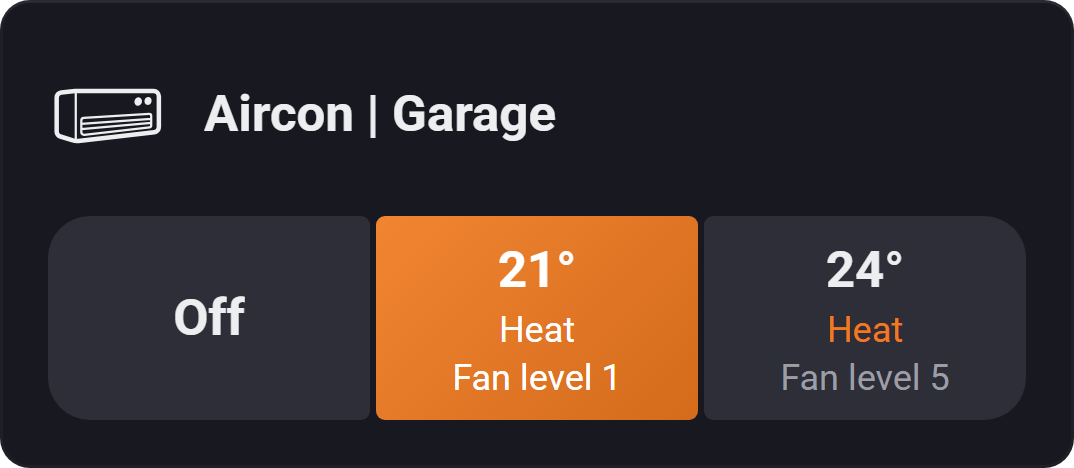
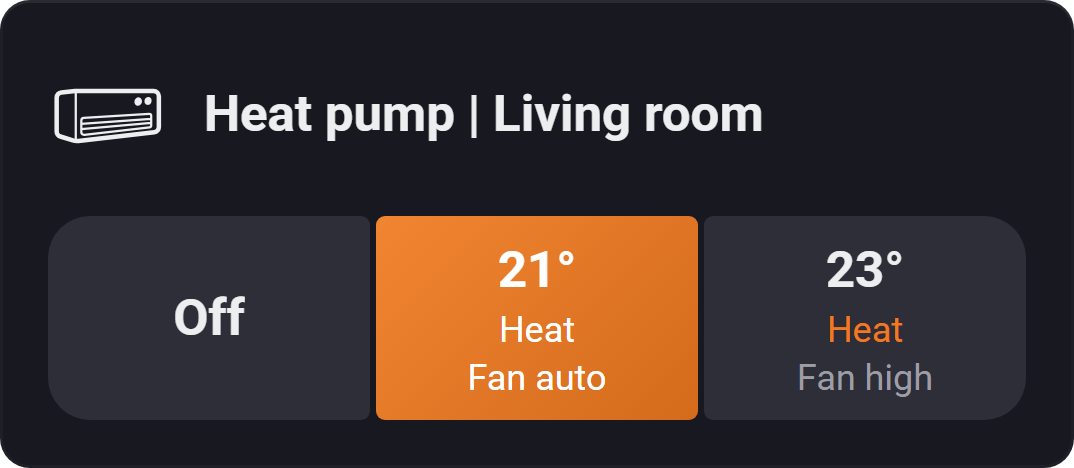
Light Controls: on/off-only lights; README screenshots from the made-up house
- Light Controls lists plugs and wall switches set up as lights (filter
  class light|socket, capabilities onoff|dim); a tile without dim has no
  bar and turns on and off
- The README screenshots use the showcase's Solbakken data on its fixed
  clock instead of mock data with real device names; the dev previews'
  real names are replaced too
- Part of 0.7.1 (changelogs)

Claude-Session: https://claude.ai/code/session_01PZZVc8wyA3FDcu8vWP5U9t

diff --git a/dev/mock-dashboard.js b/dev/mock-dashboard.js
@@ -1,90 +1,45 @@
-// The mock widgets of dev/screenshots.html and dev/showcase.html: the real widget code with fixed mock data,
-// mounted into the elements with the ids w-elec, w-thermo, w-qa, w-sa, w-weather, w-heatmap, w-cameras, w-values,
-// w-lights and w-sparklines. Needs the widget scripts, the mock-*.js files and temp/screenshot-icons.js loaded first.
-const icon = name => (window.ICONS && ICONS[name]) || null;
+// The widgets of dev/screenshots.html: the real widget code with the made-up home of showcase-data.js ("Solbakken",
+// the showcase dashboards' data, so no real home's names or readings end up in the README), mounted into the elements
+// with the ids w-elec, w-thermo, w-qa, w-sa, w-weather, w-heatmap, w-cameras, w-values, w-lights and w-sparklines.
+// Needs the widget scripts, mock-cameras.js, temp/screenshot-icons.js and showcase-data.js loaded first, and the
+// showcase's fixed clock (screenshots.html sets it), so every render is the same.
+(function () {
+  const LOCALE = 'en-GB';
+  const all = Object.values(SHOWCASE).flatMap(board => board.columns.flat());
+  /** The `n`th widget of a type, in the order of the dashboards (home, energy, security) and their columns. */
+  const find = (type, n = 0) => all.filter(w => w.type === type)[n];
+  const el = id => document.getElementById(id);
 
-const elec = createElectricityWidget(document.getElementById('w-elec'), { locale: 'en-GB' });
-elec.setSettings({ liveWindow: 10, nextLow: 'both' });
-elec.setData(mockSnapshot());
+  const elec = find('electricity');
+  const e = createElectricityWidget(el('w-elec'), { locale: LOCALE });
+  e.setSettings({ ...elec.settings, liveWindow: 10, smooth: false });
+  e.setData(elec.data);
 
-const FAN = { title: 'Fan level', units: null, values: ['AUTO', 'LEVEL1', 'LEVEL2', 'LEVEL3', 'LEVEL4', 'LEVEL5'].map((id, i) => ({ id, title: i ? `Level ${i}` : 'Auto' })) };
-const MODE = { title: 'Mode', units: null, values: [['COOL', 'Cool'], ['HEAT', 'Heat'], ['AUTO', 'Auto'], ['OFF', 'Off']].map(([id, title]) => ({ id, title })) };
-const thermo = createThermostatWidget(document.getElementById('w-thermo'), { locale: 'en-GB' });
-thermo.setButtons(thermostatPresetsFromSettings({
-  b1Power: 'off',
-  b2Power: 'keep', b2Temp: { capabilityId: 'target_temperature', value: 21 }, b2Mode: { capabilityId: 'ac_mode', value: 'HEAT' }, b2Extra: { capabilityId: 'fan_level', value: 'LEVEL1' },
-  b3Power: 'keep', b3Temp: { capabilityId: 'target_temperature', value: 24 }, b3Mode: { capabilityId: 'ac_mode', value: 'HEAT' }, b3Extra: { capabilityId: 'fan_level', value: 'LEVEL5' },
-}));
-thermo.setState({
-  name: 'Aircon | Garage', icon: icon('climate'),
-  values: { target_temperature: 21, ac_mode: 'HEAT', fan_level: 'LEVEL1' },
-  caps: { target_temperature: { title: 'Target temperature', units: '°C', values: null }, ac_mode: MODE, fan_level: FAN },
-});
+  const heatPump = find('thermostat');
+  const thermo = createThermostatWidget(el('w-thermo'), { locale: LOCALE });
+  thermo.setButtons(thermostatPresetsFromSettings(heatPump.presets));
+  thermo.setState(heatPump.state);
 
-const qa = (capabilityId, value) => ({ capabilityId, value, actionable: true, momentary: false, icon: null });
-createQuickActionsWidget(document.getElementById('w-qa'), {}).setState([
-  { id: '1', name: 'Dinoer', icon: icon('christmas-lights'), quickAction: qa('onoff', true) },
-  { id: '2', name: 'Hoveddør', icon: icon('lock'), quickAction: qa('locked', true) },
-  { id: '3', name: 'Bryggersdør', icon: icon('lock'), quickAction: qa('locked', false) },
-  { id: '4', name: 'Floor lamp', icon: icon('light-standing'), quickAction: qa('onoff', false) },
-  { id: '5', name: 'Kitchen', icon: icon('speaker'), quickAction: qa('speaker_playing', true) },
-  { id: '6', name: 'Pendant', icon: icon('light-hanging'), quickAction: qa('onoff', false) },
-]);
+  // Home's lock, coffee machine and TV, then the security dashboard's garage door, doorbell and router.
+  createQuickActionsWidget(el('w-qa'), {}).setState([...find('quickactions', 0).devices, ...find('quickactions', 3).devices]);
 
-const alarm = (capabilityId, value, title, state = false) => ({ capabilityId, title, value, state });
-const vcap = (type, extra = {}) => ({ title: '', type, units: null, decimals: null, values: null, icon: null, ...extra });
-createValuesWidget(document.getElementById('w-values'), { percentFill: true }).setState([
-  { deviceId: '1', capabilityId: 'measure_temperature', name: 'Living room', capability: vcap('number', { units: '°C', decimals: 1 }), value: 21.5 },
-  { deviceId: '1', capabilityId: 'measure_humidity', name: 'Living room', capability: vcap('number', { units: '%', decimals: 0 }), value: 48 },
-  { deviceId: '2', capabilityId: 'onoff', name: 'Floor lamp', capability: vcap('boolean'), value: true },
-  { deviceId: '3', capabilityId: 'measure_battery', name: 'Back door', capability: vcap('number', { units: '%', decimals: 0 }), value: 7 },
-  { deviceId: '4', capabilityId: 'measure_battery', name: 'Hallway', capability: vcap('number', { units: '%', decimals: 0 }), value: 16 },
-  { deviceId: '5', capabilityId: 'measure_power', name: 'Meter', capability: vcap('number', { units: 'W', decimals: 0 }), value: 812 },
-]);
+  const alarms = find('sensoralarms', 1); // security: with the door contacts
+  createSensorAlarmsWidget(el('w-sa'), alarms.opts || {}).setState(alarms.devices);
 
-// A fixed clock and series built from formulas, so the shot is the same on every render.
-const SPARK_NOW = Date.UTC(2026, 9, 6, 12);
-const DAY = 24 * 3600e3;
-const spark = f => Array.from({ length: 120 }, (_, i) => [SPARK_NOW - DAY + (i + 0.5) * DAY / 120, f(i / 119)]);
-const sround = (v, d) => Math.round(v * 10 ** d) / 10 ** d;
-const sday = x => Math.sin((x - 0.3) * 2 * Math.PI);
-const sparkSlot = (deviceId, capabilityId, name, extra, points) =>
-  ({ deviceId, capabilityId, name, capability: vcap('number', extra), value: points[points.length - 1][1], points });
-createSparklinesWidget(document.getElementById('w-sparklines'), { now: () => SPARK_NOW }).setState([
-  sparkSlot('1', 'measure_temperature', 'Living room', { units: '°C', decimals: 1 }, spark(x => sround(21.2 + 1.6 * sday(x) + 0.2 * Math.sin(x * 40), 1))),
-  sparkSlot('2', 'measure_power', 'Meter', { units: 'W', decimals: 0 }, spark(x => Math.round(450 + (Math.sin(x * 23) > 0.6 ? 2400 : 0) + 120 * Math.sin(x * 90)))),
-  sparkSlot('3', 'measure_humidity', 'Bathroom', { units: '%', decimals: 0 }, spark(x => Math.round(62 - 14 * x + 3 * Math.sin(x * 17)))),
-  sparkSlot('4', 'measure_co2', 'Bedroom', { units: 'ppm', decimals: 0 }, spark(x => Math.round(620 + 380 * Math.max(0, sday(x)) + 30 * Math.sin(x * 31)))),
-]);
+  const values = find('values', 1); // security: batteries in red, yellow and green
+  createValuesWidget(el('w-values'), values.opts || {}).setState(values.slots);
 
-const lcap = value => ({ value, setable: true });
-createLightsWidget(document.getElementById('w-lights'), {}).setState([
-  { id: '1', name: 'Living Room', icon: icon('light-standing'), caps: { onoff: lcap(true), dim: lcap(0.35), light_temperature: lcap(0.8), light_mode: lcap('temperature') } },
-  { id: '2', name: 'Spots | Dining room', icon: icon('light-hanging'), caps: { onoff: lcap(false), dim: lcap(0.25), light_temperature: lcap(0.5) } },
-  { id: '3', name: 'Kitchen', icon: icon('light-hanging'), caps: { onoff: lcap(true), dim: lcap(0.2), light_temperature: lcap(0.9) } },
-  { id: '4', name: 'Hue Go', icon: icon('light-standing'), caps: { onoff: lcap(true), dim: lcap(0.6), light_hue: lcap(0.75), light_saturation: lcap(0.7), light_temperature: lcap(0.2), light_mode: lcap('color') } },
-  { id: '5', name: 'Office', icon: icon('light-hanging'), caps: { onoff: lcap(true), dim: lcap(1), light_temperature: lcap(0.1), light_mode: lcap('temperature') } },
-  { id: '6', name: 'Bedroom', icon: icon('light-standing'), caps: { onoff: lcap(false), dim: lcap(0.5) } },
-]);
+  createSparklinesWidget(el('w-sparklines'), {}).setState(find('sparklines').slots);
 
-createSensorAlarmsWidget(document.getElementById('w-sa'), {}).setState([
-  { id: '1', name: 'Kitchen', icon: icon('smoke-detector'), alarms: [alarm('alarm_smoke', false, 'Smoke alarm'), alarm('alarm_battery', false, 'Battery alarm')] },
-  { id: '2', name: 'Hallway', icon: icon('smoke-detector'), alarms: [alarm('alarm_smoke', false, 'Smoke alarm')] },
-  { id: '3', name: "Kid's Room", icon: icon('air-purifier'), alarms: [alarm('alarm_co2', true, 'CO₂ Alarm'), alarm('alarm_radon', false, 'Radon alarm')] },
-  { id: '4', name: 'Bedroom', icon: icon('air-purifier'), alarms: [alarm('alarm_co2', false, 'CO₂ Alarm'), alarm('alarm_radon', false, 'Radon alarm')] },
-  { id: '5', name: 'Laundry', icon: icon('washing-machine'), alarms: [alarm('alarm_water', false, 'Water alarm')] },
-  { id: '6', name: 'Front door', icon: icon('door'), alarms: [alarm('alarm_contact', true, 'Contact alarm', true), alarm('alarm_tamper', false, 'Tamper alarm')] },
-]);
+  createLightsWidget(el('w-lights'), {}).setState(find('lights').devices);
 
-const cams = createCamerasWidget(document.getElementById('w-cameras'), {});
-cams.setState(mockCameras().slice(0, 4));
-cams.refresh();
+  const cams = createCamerasWidget(el('w-cameras'), {});
+  cams.setState(find('cameras', 1).cameras.slice(0, 4));
+  cams.refresh();
 
-const lux = mockHeatmapLux('2026-10-04', 9);
-createHeatmapWidget(document.getElementById('w-heatmap'), { locale: 'en-GB', period: 'week', step: 2 })
-  .setData({ ...lux, name: 'Living room sensor', icon: icon('motion-sensor') || lux.icon });
+  const heat = find('heatmap');
+  createHeatmapWidget(el('w-heatmap'), { locale: LOCALE, ...heat.opts }).setData(heat.data);
 
-// A fixed afternoon, so the shot doesn't change with the time it's rendered.
-const weatherNow = new Date().setHours(13, 20, 0, 0);
-createWeatherWidget(document.getElementById('w-weather'), { locale: 'en-GB', iconBase: '../widgets/weather/public/icons/', now: () => weatherNow })
-  .setForecast({ hours: mockWeatherHours(weatherNow), language: 'en' });
+  createWeatherWidget(el('w-weather'), { locale: LOCALE, iconBase: '../widgets/weather/public/icons/' })
+    .setForecast({ hours: find('weather').hours, language: 'en' });
+})();

diff --git a/lib/LightService.ts b/lib/LightService.ts
@@ -9,7 +9,7 @@ const IDLE_TIMEOUT = 10 * MINUTE;
 
 export const LIGHTS_STATE_EVENT = 'lights:state';
 
-/** The capabilities a light tile reads; `dim` is required. */
+/** The capabilities a light tile reads; it needs `dim` or `onoff` (a plug or a switch set to be a light). */
 export const LIGHT_CAPS = ['onoff', 'dim', 'light_temperature', 'light_hue', 'light_saturation', 'light_mode'] as const;
 
 export type LightCap = { value: unknown, setable: boolean };
@@ -98,13 +98,14 @@ export default class LightService {
 
   /**
    * One change from a tile. Brightness 0 means off: it turns `onoff` off (keeping the brightness), and
-   * brightness above 0 turns the light on. A light without `onoff` is turned off and on through `dim`.
+   * brightness above 0 turns the light on. A light without `onoff` is turned off and on through `dim`,
+   * and one without `dim` takes a brightness as on (above 0) or off.
    */
   async set(deviceId: string, change: LightChange) {
     const api = await getAppApi(this.homey);
     const device = await api.devices.getDevice({ id: deviceId, $cache: false });
     const caps = device.capabilitiesObj || {};
-    if (!caps.dim) throw new Error(`${device.name} has no dim capability`);
+    if (!caps.dim && !caps.onoff) throw new Error(`${device.name} has no dim or onoff capability`);
     const send = async (capabilityId: string, value: unknown) => {
       if (!caps[capabilityId]) throw new Error(`${device.name} has no ${capabilityId}`);
       await device.setCapabilityValue({ capabilityId, value });
@@ -117,6 +118,7 @@ export default class LightService {
     if (change.dim !== undefined) {
       const dim = fraction(change.dim, 'brightness');
       if (dim === 0) await send(caps.onoff ? 'onoff' : 'dim', caps.onoff ? false : 0);
+      else if (!caps.dim) await turnOn();
       else {
         await send('dim', dim);
         await turnOn();
@@ -191,7 +193,7 @@ export default class LightService {
   private async track(deviceId: string, tm: Timings): Promise<Tracked> {
     const api = await tm.time('api', () => getAppApi(this.homey));
     const device: any = await tm.time('getDevice', () => api.devices.getDevice({ id: deviceId }));
-    if (!device.capabilitiesObj?.dim) throw new Error(`${device.name} has no dim capability`);
+    if (!device.capabilitiesObj?.dim && !device.capabilitiesObj?.onoff) throw new Error(`${device.name} has no dim or onoff capability`);
     const icon = await tm.time('icons', () => fetchDeviceIcon(api, device, this.log));
     const t: Tracked = {
       deviceId,

diff --git a/dev/screenshots.html b/dev/screenshots.html
@@ -8,10 +8,22 @@
     The README screenshots: the real widget code with mock data, at the width of a widget on Homey's dark dashboard
     on a phone (358 px: a 390 px screen less the dashboard's 16 px margins; colours sampled from an iPhone screenshot).
     No widget title and a transparent page, so the shots sit flush with the README text in either GitHub theme. `?s=electricity|thermostat|quickactions|sensoralarms|weather|heatmap|cameras|values|lights|sparklines`
-    shows one, for scripts/render-screenshots.mjs; without it, all of them. The widgets and their mock data are in mock-dashboard.js, shared with showcase.html.
+    shows one, for scripts/render-screenshots.mjs; without it, all of them. The widgets are mounted by mock-dashboard.js with the made-up home of showcase-data.js.
     Device icons come from Homey's icon library. The render script downloads them to temp/screenshot-icons.js;
     without that file the tiles fall back to plain squares.
   -->
+  <script>
+    // The showcase's fixed clock (Tuesday 6 October 2026, 18:40), set before showcase-data.js builds its data.
+    (() => {
+      const Real = Date;
+      const offset = new Real(2026, 9, 6, 18, 40, 0).getTime() - Real.now();
+      class FixedDate extends Real {
+        constructor(...args) { if (args.length) super(...args); else super(Real.now() + offset); }
+        static now() { return Real.now() + offset; }
+      }
+      window.Date = FixedDate;
+    })();
+  </script>
   <link href="https://fonts.googleapis.com/css2?family=Roboto:wght@400;500;700&display=swap" rel="stylesheet">
   <link rel="stylesheet" href="../widgets/electricity/public/widget.css">
   <link rel="stylesheet" href="../widgets/thermostat/public/widget.css">
@@ -33,11 +45,9 @@
   <script src="../widgets/values/public/widget.js"></script>
   <script src="../widgets/lights/public/widget.js"></script>
   <script src="../widgets/sparklines/public/widget.js"></script>
-  <script src="mock-electricity.js"></script>
-  <script src="mock-weather.js"></script>
-  <script src="mock-heatmap.js"></script>
   <script src="mock-cameras.js"></script>
   <script src="../temp/screenshot-icons.js" onerror="window.ICONS = {}"></script>
+  <script src="showcase-data.js"></script>
   <style>
     /* Transparent: the render script screenshots with a transparent default background. */
     html, body { background: transparent !important; }

diff --git a/widgets/lights/public/widget.js b/widgets/lights/public/widget.js
@@ -1,7 +1,7 @@
 /*
  * Light Controls: compact light tiles, two per row (no brightness text: the bar shows it, and the space
  * goes to the colour chip's tap area). A tap on the tile turns the light on or off; the bar at the bottom
- * sets the brightness (0 = off). The chip opens a panel of colour and white swatches over the tile's row:
+ * sets the brightness (0 = off); lights without brightness (plugs, switches) have no bar. The chip opens a panel of colour and white swatches over the tile's row:
  * taps only, as Homey's Android app takes any drag. Plain browser JS (served as-is).
  */
 (function () {
@@ -197,7 +197,9 @@
       return typeof dim === 'number' && dim > 0;
     }
 
+    /** The brightness (0–1): a light without `dim` (a plug or a switch) is full while on. */
     function brightness(d) {
+      if (!d.caps.dim) return isOn(d) ? 1 : 0;
       const dim = shown(d, 'dim');
       return isOn(d) && typeof dim === 'number' ? dim : 0;
     }
@@ -502,7 +504,7 @@
 
     /** The tiles for the lights, grouped by room with `groupByZone`. */
     function buildItems() {
-      const usable = d => !('missing' in d) && d.caps && d.caps.dim;
+      const usable = d => !('missing' in d) && d.caps && (d.caps.dim || d.caps.onoff);
       const rooms = new Map(); // zone id → its usable lights
       if (opts.groupByZone) {
         for (const d of devices) {
@@ -570,6 +572,7 @@
         tile.chipGlyph.classList.toggle('hue', color);
         setMask(tile.chipGlyph, color ? HUE_GLYPH : TEMP_GLYPH);
         tile.tile.classList.toggle('on', on || (drag != null && x > 0));
+        tile.tile.classList.toggle('no-dim', !d.members.some(m => m.caps.dim)); // on/off only: no bar
         tile.tile.style.setProperty('--lc-light', lightColor(caps));
         tile.tile.style.setProperty('--lc-x', String(x));
         tile.bar.setAttribute('aria-valuenow', String(Math.round(x * 100)));

diff --git a/test/lights-service.test.ts b/test/lights-service.test.ts
@@ -42,7 +42,7 @@ describe('getState', () => {
           light_mode: { value: 'color', setable: true },
         },
       },
-      { id: 'plug', missing: true }, // no dim
+      { id: 'plug', name: 'Plug', icon: null, zone: { id: 'z1', name: 'Køkken' }, caps: { onoff: { value: false, setable: true } } }, // on/off only
     ]);
   });
 });
@@ -144,14 +144,22 @@ describe('set', () => {
     expect(devices[1].sent).toEqual(['dim=0', 'dim=0.4', 'dim=0']);
   });
 
-  it('refuses bad values and devices without dim', async () => {
+  it('turns a light without dim on and off with the brightness', async () => {
+    const { service, devices: [, , p] } = setup();
+    await service.set('plug', { dim: 0.5 });
+    await service.set('plug', { dim: 0 });
+    await service.set('plug', { onoff: true });
+    expect(p.sent).toEqual(['onoff=true', 'onoff=false', 'onoff=true']);
+  });
+
+  it('refuses bad values and devices without dim or onoff', async () => {
     const { service } = setup();
     await expect(service.set('bulb', { dim: 2 })).rejects.toThrow(/Invalid brightness/);
     await expect(service.set('bulb', { onoff: 'on' })).rejects.toThrow(/Invalid on\/off/);
     await expect(service.set('dimmer', { temperature: 0.5 })).rejects.toThrow(/colour temperature/);
     await expect(service.set('dimmer', { hue: 0.5, saturation: 1 })).rejects.toThrow(/no colour/);
     await expect(service.set('bulb', { hue: 0.5, saturation: 3 })).rejects.toThrow(/Invalid saturation/);
-    await expect(service.set('plug', { dim: 0.5 })).rejects.toThrow(/no dim/);
+    await expect(service.set('plug', { temperature: 0.5 })).rejects.toThrow(/colour temperature/);
     await expect(service.set('bulb', {})).rejects.toThrow(/Nothing to set/);
   });
 });

diff --git a/dev/quickactions-preview.html b/dev/quickactions-preview.html
@@ -32,9 +32,9 @@
     const LAMP = svg('<path d="M8 3h8l3 8H5zM12 11v9M8 21h8"/>');
     const qa = (capabilityId, value, extra = {}) => ({ capabilityId, value, actionable: true, momentary: capabilityId === 'button', icon: null, ...extra });
     const devices = () => [
-      { id: 'a', name: 'Dinoer', icon: LIGHTS, quickAction: qa('onoff', false) },
-      { id: 'b', name: 'Hoveddør', icon: DOOR, quickAction: qa('locked', true) },
-      { id: 'c', name: 'Bryggersdør', icon: DOOR, quickAction: qa('locked', false) },
+      { id: 'a', name: 'Fairy lights', icon: LIGHTS, quickAction: qa('onoff', false) },
+      { id: 'b', name: 'Front door', icon: DOOR, quickAction: qa('locked', true) },
+      { id: 'c', name: 'Back door', icon: DOOR, quickAction: qa('locked', false) },
       { id: 'd', name: 'Floor lamp | Living room', icon: LAMP, quickAction: qa('onoff', true) },
       { id: 'e', name: 'Kitchen', icon: null, quickAction: qa('speaker_playing', false) },
       { id: 'f', name: 'Alarm', icon: null, quickAction: qa('button', false) },

diff --git a/test/lights-widget.test.ts b/test/lights-widget.test.ts
@@ -99,6 +99,17 @@ describe('tap', () => {
     expect(value('spots')).toBe('100');
   });
 
+  it('toggles a light without dim (a plug or a switch), which has no bar', () => {
+    const plug = { id: 'plug', name: 'Socket', icon: null, caps: { onoff: cap(false) } };
+    const { tile, onSet, value } = widget([plug]);
+    expect(tile('plug').classList.contains('missing')).toBe(false);
+    expect(tile('plug').classList.contains('no-dim')).toBe(true);
+    tile('plug').click();
+    expect(onSet).toHaveBeenCalledWith('plug', { onoff: true });
+    expect(tile('plug').classList.contains('on')).toBe(true);
+    expect(value('plug')).toBe('100');
+  });
+
   it('turns a light without onoff back on to its last brightness', () => {
     const { w, tile, value } = widget([spots(0.4)]);
     tile('spots').click(); // off

diff --git a/dev/thermostat-preview.html b/dev/thermostat-preview.html
@@ -54,7 +54,7 @@
         onApply: (vals) => new Promise(r => setTimeout(() => { for (const v of vals) w.pushChange(v); r(); }, 600)),
       });
       w.setButtons(thermostatPresetsFromSettings(s));
-      w.setState({ name: 'Aircon | Garage', icon, values: { ...values }, caps });
+      w.setState({ name: 'Heat pump | Living room', icon, values: { ...values }, caps });
     }
     const empty = createThermostatWidget(document.getElementById('w6'), { t: devT });
     empty.setButtons(thermostatPresetsFromSettings(settings));

diff --git a/widgets/lights/public/widget.css b/widgets/lights/public/widget.css
@@ -50,7 +50,7 @@ html, body { background: transparent !important; }
 .lc-tile.pressing { transform: scale(.97); }
 .lc-tile.missing { cursor: default; }
 .lc-tile.missing > * { opacity: .5; }
-.lc-tile.missing .lc-bar { visibility: hidden; }
+.lc-tile.missing .lc-bar, .lc-tile.no-dim .lc-bar { visibility: hidden; }
 
 /* On: the tile takes on the light's colour, brightest at the top like Homey's own light card. */
 .lc-tile.on {

diff --git a/CLAUDE.md b/CLAUDE.md
@@ -15,7 +15,7 @@ Homey Pro app (`com.thomassidor.widgetkeeper`) that hosts custom dashboard widge
   - It also writes the README's copies, `docs/previews/<widget>-<light|dark>.png`: cropped to the card with `sharp` (a dev dependency), 480 px wide, the bottom padded to 420 px.
   - The README overview is no table: in a table GitHub's `max-width: 100%` lets the image column collapse on a phone, so the previews were nearly invisible. Each widget is one HTML `<p>`: a 120 px preview floated left (`align="left"`, a `<picture>` that follows the GitHub theme), the bold linked name, the description and `<br clear="left">`. The equal heights keep the text beside the image at phone width (358 px of content).
 - `npm run screenshots [-- thermostat …]`: renders the README screenshots (`docs/screenshots/*.png`) from `dev/screenshots.html`: the real widgets with mock data in Homey's dark mode, 358 px (a phone's widget width) at 3x, with no widget title and a transparent background so they sit flush with the README text. It downloads the Homey library icons the mock devices use into `temp/screenshot-icons.js` (not committed).
-  - The widgets and their mock data are in `dev/mock-dashboard.js`.
+  - The data is the showcase's made-up house (`dev/showcase-data.js`, see below) on its fixed clock; `dev/mock-dashboard.js` picks a widget of each type from it (`find(type, n)`, in dashboard order) and mounts it. Never put real device names or readings in the renders.
 - `npm run showcase [-- home energy security]`: renders the showcase dashboards (`docs/showcase/<id>.png`; the README's top image is `home.png`) from `dev/showcase.html?d=<id>`: three columns of the real widgets on Homey's dark dashboard, on a drawn 16:10 tablet (a 1280 × 800 screen), at 2x on a transparent background.
   - The data is a made-up house, "Solbakken", on Tuesday 6 October 2026 at 18:40 (`dev/showcase-data.js`); the page replaces `Date` to fix the clock, so every render is the same. The electricity widget uses `smooth`.
   - A dashboard is `SHOWCASE[id] = { title, columns: [[{ type, … }]] }`; `MOUNT` in `showcase.html` creates each widget type. A new dashboard is a new entry.
@@ -79,7 +79,7 @@ How this project uses it:
   - `--homey-border-radius-small` for the 3 px heatmap cells;
   - the `.homey-text-*` classes.
   Read the real values in a widget on the Homey before switching any of them.
-- Checking a styling change: render `npm run screenshots` before and after. Every image except `electricity.png`, which changes with the time, should be byte-identical.
+- Checking a styling change: render `npm run screenshots` before and after. Every image should be byte-identical (the clock is fixed).
 
 ## Thermostat Shortcuts widget
 - Three preset buttons for one device. `lib/ThermostatService.ts` owns it; `lib/appApi.ts` holds the shared `createAppAPI` instance.
@@ -194,7 +194,7 @@ How this project uses it:
 - Realtime: `values:state` `{deviceId, capabilityId, value}`. Tracking is per slot, dropped after 10 min without `/state`; widgets re-fetch every 5 min. A failed refresh keeps the tiles, as in Quick Actions.
 
 ## Light Controls widget
-- Compact light tiles, 2 per row and 88 px high, so 6 lights fit in the height of 3 of Homey's light cards (the user's aim). No brightness text (the user dropped it so the chip's tap area could grow): the bar shows it. `lib/LightService.ts` owns it. The `devices` setting (`singular: false`, filter `capabilities: dim`); transparent, with Quick Actions' tile style.
+- Compact light tiles, 2 per row and 88 px high, so 6 lights fit in the height of 3 of Homey's light cards (the user's aim). No brightness text (the user dropped it so the chip's tap area could grow): the bar shows it. `lib/LightService.ts` owns it. The `devices` setting (`singular: false`, filter `class: light|socket`, `capabilities: onoff|dim`: plugs and wall switches set to be lights only have `onoff`; it's not known whether Homey's class filter also matches a `virtualClass`, hence `socket`); transparent, with Quick Actions' tile style.
 - A tile: the device icon and the colour chip (only with a settable `light_hue` or `light_temperature`) on top, the name, then a brightness bar (28 px hit area, 6 px track, knob). A lit tile takes on the light's colour (`--lc-light`: `hueColor()` in colour mode, lighter as the saturation drops so 0 is white; else the cool→warm temperature colour), fading towards the bottom like the native card.
 - Brightness 0 = off (the user's rule). The service turns `onoff` off and keeps `dim`; brightness above 0 sets `dim`, then `onoff=true` if it was off. A light without `onoff` is turned off with `dim=0` and back on to its last brightness above 0.
 - Interaction: a tap on the tile toggles on/off (Quick Actions' touch-tap logic). The bar takes its touches (`preventDefault`, `touch-action: none`): a drag updates live and sends once when let go; a tap sets the value where it lands. Android's dashboard takes a drag after ~100 ms (`touchcancel`, which drops the gesture), so there only a tap on the bar works.
@@ -211,7 +211,7 @@ How this project uses it:
 - `groupByZone` (checkbox, off by default; `opts.groupByZone`): the selected lights in the same zone share one tile (`buildItems()`; id `zone:<zoneId>`, the zone's name, its first light's icon), placed where its first light is. A zone with one selected light, a light without a known zone and a missing light keep their own tile. Only the selected lights count, not every light in the room.
   - A tile is on while any light is; the bar shows the average brightness of the lights that are on; the colour is the first lit light's (`lead()`).
   - A tap turns all off when any is on, else all on; the bar sets every light; a colour goes to the lights with `light_hue`, a white to those with `light_temperature` and, in a room, as saturation 0 to colour lights without it. The widget sends one `/set` per light, in parallel.
-- Endpoints: `GET /state?deviceIds=` (`{id, name, icon, zone: {id, name} | null, caps: {onoff?, dim, light_temperature?, light_hue?, light_saturation?, light_mode?: {value, setable}}}` or `{id, missing}`; a device without `dim` is missing) and `POST /set {deviceId, dim | onoff | temperature | hue + saturation}` (fractions 0–1).
+- Endpoints: `GET /state?deviceIds=` (`{id, name, icon, zone: {id, name} | null, caps: {onoff?, dim, light_temperature?, light_hue?, light_saturation?, light_mode?: {value, setable}}}` or `{id, missing}`; a device needs `dim` or `onoff`). A light without `dim` takes `/set {dim}` as on (above 0) or off; its tile (`.no-dim` when no light on it has `dim`) hides the bar and counts as full brightness while on and `POST /set {deviceId, dim | onoff | temperature | hue + saturation}` (fractions 0–1).
 - Realtime: `lights:state` `{deviceId, capabilityId, value}`, one capability instance per light capability. Tracking is dropped after 10 min without `/state`; widgets re-fetch every 5 min. Optimistic values for 10 s, as in Quick Actions.
 - `dev/lights-preview.html`: dark, light and 300 px, with a simulated device. `?open=<id>` opens a tile's swatch panel (`d` colour + whites, `h` colour only, `a` whites only, `zone:z1` the grouped living room). The fourth widget is grouped by room.
 

diff --git a/README.md b/README.md
@@ -105,7 +105,7 @@ Half-height tiles that each show one device value, such as a temperature, a batt
 ## Light Controls
 <img src="docs/screenshots/lights.png" alt="Light Controls on a Homey dashboard" width="358">
 
-Compact light tiles, six in the space of three of Homey's light cards. Tap a tile to turn the light on or off, drag or tap the bar to set the brightness, and tap the colour button (a half-filled circle, or a thermometer on white-only lights, in the light's colour) to pick a colour or a white from a row of swatches. On Android, tap the bar instead of dragging. Lights in the same room can share one tile that controls them all.
+Compact light tiles, six in the space of three of Homey's light cards. Tap a tile to turn the light on or off, drag or tap the bar to set the brightness, and tap the colour button (a half-filled circle, or a thermometer on white-only lights, in the light's colour) to pick a colour or a white from a row of swatches. On Android, tap the bar instead of dragging. Lights in the same room can share one tile that controls them all. Plugs and switches that only turn on and off get a tile without the bar.
 
 **Settings:** lights, colour palette (bright colours, warm from red to cool white, or dusk), group by room.
 

diff --git a/CHANGELOG.md b/CHANGELOG.md
@@ -13,6 +13,9 @@ All notable changes to Widgetkeeper. The version numbers match the Homey app ver
 - A brief connection problem no longer hides the charts.
 - The usage history comes back by itself when Homey's Insights were briefly unavailable as the widget opened.
 
+### Light Controls
+- Plugs and wall switches set up as lights can now be picked too. They only turn on and off, so their tiles have no brightness bar.
+
 ## 0.7.0
 
 ### New: Device Values
